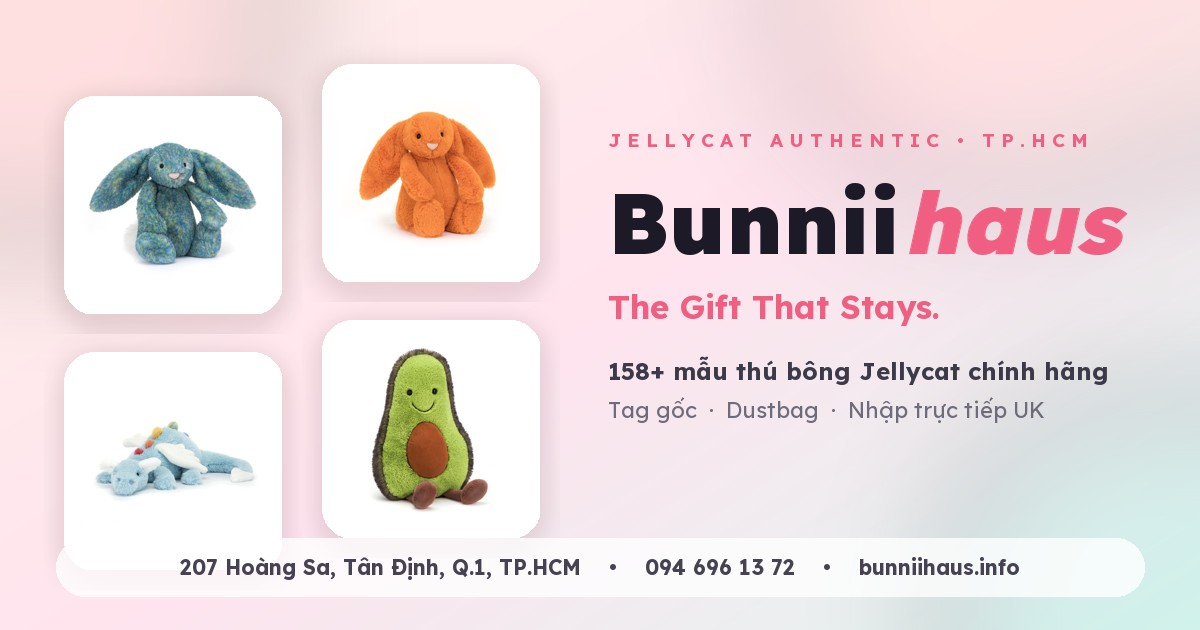
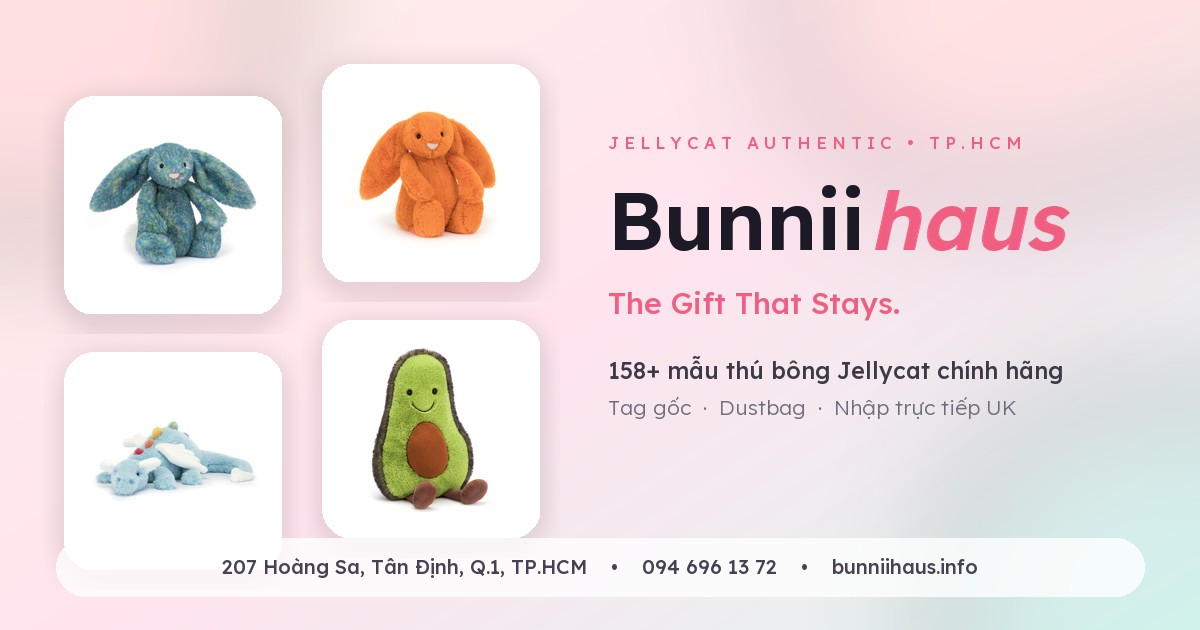
OG image: elegant lighter typography (v3)

diff --git a/bunniihaus_design.html b/bunniihaus_design.html
@@ -24,8 +24,8 @@
 <meta property="og:title" content="Bunniihaus — Jellycat Authentic TP.HCM">
 <meta property="og:description" content="Cửa hàng Jellycat chính hãng nhập khẩu trực tiếp. 158+ mẫu thú bông cao cấp. Tag gốc · Dustbag · Bảo hành xuất xứ. Ghé 207 Hoàng Sa, Tân Định, Q.1.">
 <meta property="og:url" content="https://bunniihaus.info/">
-<meta property="og:image" content="https://bunniihaus.info/og-image.jpg?v=2">
-<meta property="og:image:secure_url" content="https://bunniihaus.info/og-image.jpg?v=2">
+<meta property="og:image" content="https://bunniihaus.info/og-image.jpg?v=3">
+<meta property="og:image:secure_url" content="https://bunniihaus.info/og-image.jpg?v=3">
 <meta property="og:image:width" content="1200">
 <meta property="og:image:height" content="630">
 <meta property="og:image:alt" content="Bunniihaus — Jellycat Authentic Store TP.HCM">
@@ -35,7 +35,7 @@
 <meta name="twitter:card" content="summary_large_image">
 <meta name="twitter:title" content="Bunniihaus — Jellycat Authentic TP.HCM">
 <meta name="twitter:description" content="Cửa hàng Jellycat chính hãng nhập khẩu trực tiếp. 158+ mẫu thú bông cao cấp tại 207 Hoàng Sa, Tân Định, Q.1.">
-<meta name="twitter:image" content="https://bunniihaus.info/og-image.jpg?v=2">
+<meta name="twitter:image" content="https://bunniihaus.info/og-image.jpg?v=3">
 
 <!-- ── THEME / PWA ────────────────────────────────────────────── -->
 <meta name="theme-color" content="#FF6B8A">
@@ -55,8 +55,8 @@
   "alternateName": "Bunniihaus Jellycat Store",
   "description": "Cửa hàng Jellycat chính hãng nhập khẩu trực tiếp tại TP.HCM. Chuyên thú bông Jellycat cao cấp: Bashful Bunny, Amuseable, Dragon, Charm, Classic. Tag gốc, dustbag đầy đủ.",
   "url": "https://bunniihaus.info",
-  "logo": "https://bunniihaus.info/og-image.jpg?v=2",
-  "image": "https://bunniihaus.info/og-image.jpg?v=2",
+  "logo": "https://bunniihaus.info/og-image.jpg?v=3",
+  "image": "https://bunniihaus.info/og-image.jpg?v=3",
   "telephone": "+84946961372",
   "priceRange": "300.000₫ - 4.500.000₫",
   "currenciesAccepted": "VND",

diff --git a/index.html b/index.html
@@ -24,8 +24,8 @@
 <meta property="og:title" content="Bunniihaus — Jellycat Authentic TP.HCM">
 <meta property="og:description" content="Cửa hàng Jellycat chính hãng nhập khẩu trực tiếp. 158+ mẫu thú bông cao cấp. Tag gốc · Dustbag · Bảo hành xuất xứ. Ghé 207 Hoàng Sa, Tân Định, Q.1.">
 <meta property="og:url" content="https://bunniihaus.info/">
-<meta property="og:image" content="https://bunniihaus.info/og-image.jpg?v=2">
-<meta property="og:image:secure_url" content="https://bunniihaus.info/og-image.jpg?v=2">
+<meta property="og:image" content="https://bunniihaus.info/og-image.jpg?v=3">
+<meta property="og:image:secure_url" content="https://bunniihaus.info/og-image.jpg?v=3">
 <meta property="og:image:width" content="1200">
 <meta property="og:image:height" content="630">
 <meta property="og:image:alt" content="Bunniihaus — Jellycat Authentic Store TP.HCM">
@@ -35,7 +35,7 @@
 <meta name="twitter:card" content="summary_large_image">
 <meta name="twitter:title" content="Bunniihaus — Jellycat Authentic TP.HCM">
 <meta name="twitter:description" content="Cửa hàng Jellycat chính hãng nhập khẩu trực tiếp. 158+ mẫu thú bông cao cấp tại 207 Hoàng Sa, Tân Định, Q.1.">
-<meta name="twitter:image" content="https://bunniihaus.info/og-image.jpg?v=2">
+<meta name="twitter:image" content="https://bunniihaus.info/og-image.jpg?v=3">
 
 <!-- ── THEME / PWA ────────────────────────────────────────────── -->
 <meta name="theme-color" content="#FF6B8A">
@@ -55,8 +55,8 @@
   "alternateName": "Bunniihaus Jellycat Store",
   "description": "Cửa hàng Jellycat chính hãng nhập khẩu trực tiếp tại TP.HCM. Chuyên thú bông Jellycat cao cấp: Bashful Bunny, Amuseable, Dragon, Charm, Classic. Tag gốc, dustbag đầy đủ.",
   "url": "https://bunniihaus.info",
-  "logo": "https://bunniihaus.info/og-image.jpg?v=2",
-  "image": "https://bunniihaus.info/og-image.jpg?v=2",
+  "logo": "https://bunniihaus.info/og-image.jpg?v=3",
+  "image": "https://bunniihaus.info/og-image.jpg?v=3",
   "telephone": "+84946961372",
   "priceRange": "300.000₫ - 4.500.000₫",
   "currenciesAccepted": "VND",
